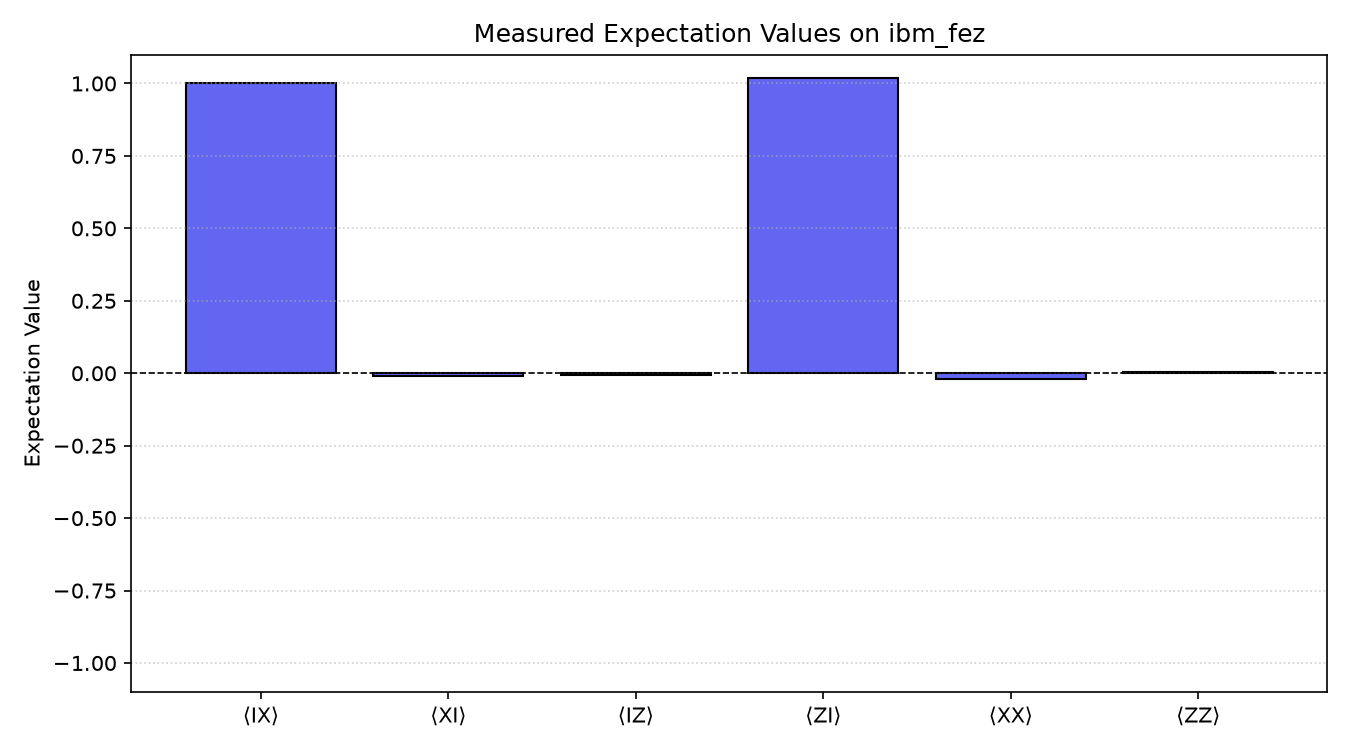
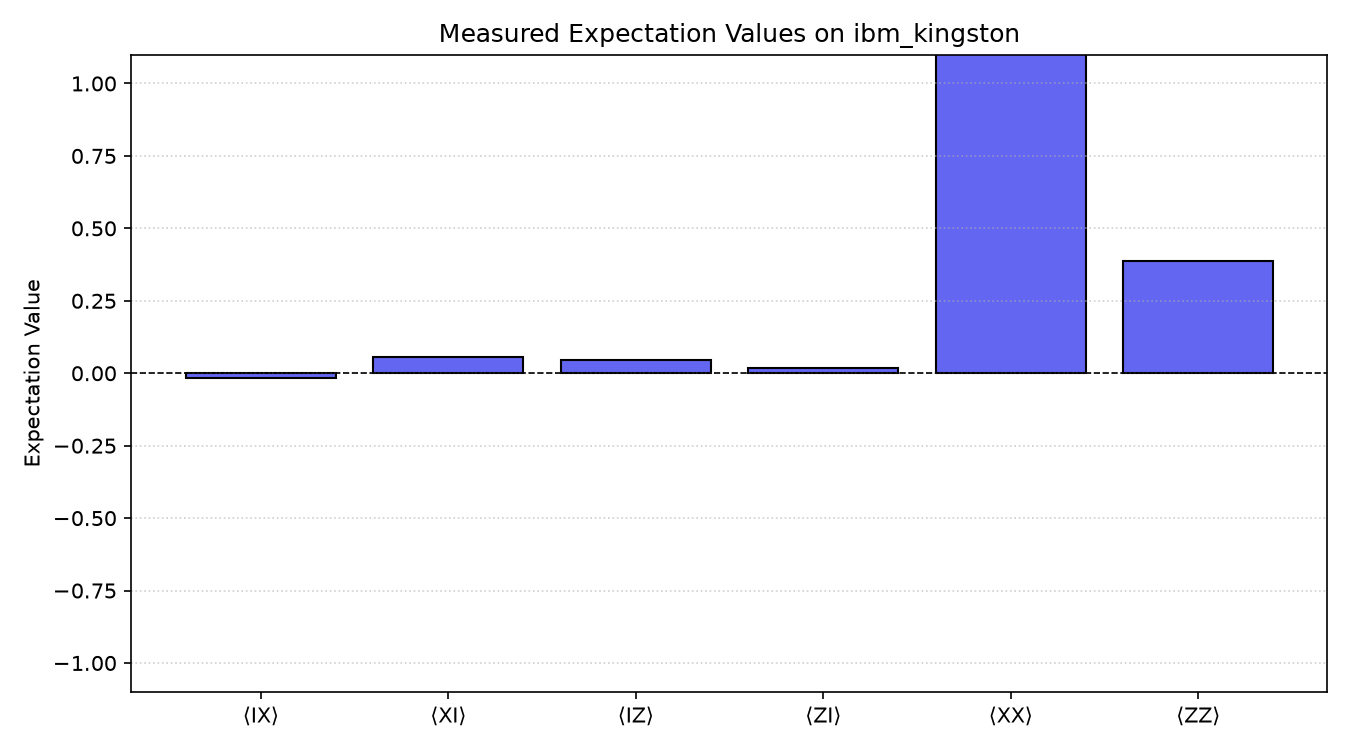
Bell state in two-qubit script
Add a CNOT after the Hadamard so the circuit prepares the Bell state
(|00> + |11>)/sqrt(2), and regenerate the expectation value plot from an
ibm_kingston run. Note: this run gave XX = 1.52 and ZZ = 0.39 instead of
about 1, so it should be rerun.

Changed region(s): [[0.28, 0.0307, 0.9644, 0.5213], [0.1244, 0.092, 0.2489, 0.5213]]

diff --git a/quantum_rotations_and_expectations.py b/quantum_rotations_and_expectations.py
@@ -9,9 +9,10 @@ service = QiskitRuntimeService()
 backend = service.least_busy(operational=True, simulator=False)
 print(f"Target QPU: {backend.name}")
 
-# State preparation: |+> on qubit 0, |0> on qubit 1
+# State preparation: Bell state (|00> + |11>)/sqrt(2)
 qc = QuantumCircuit(2)
 qc.h(0)
+qc.cx(0, 1)
 
 # Pauli observables (Qiskit labels are little-endian: rightmost char = qubit 0)
 paulis = ["IX", "XI", "IZ", "ZI", "XX", "ZZ"]
